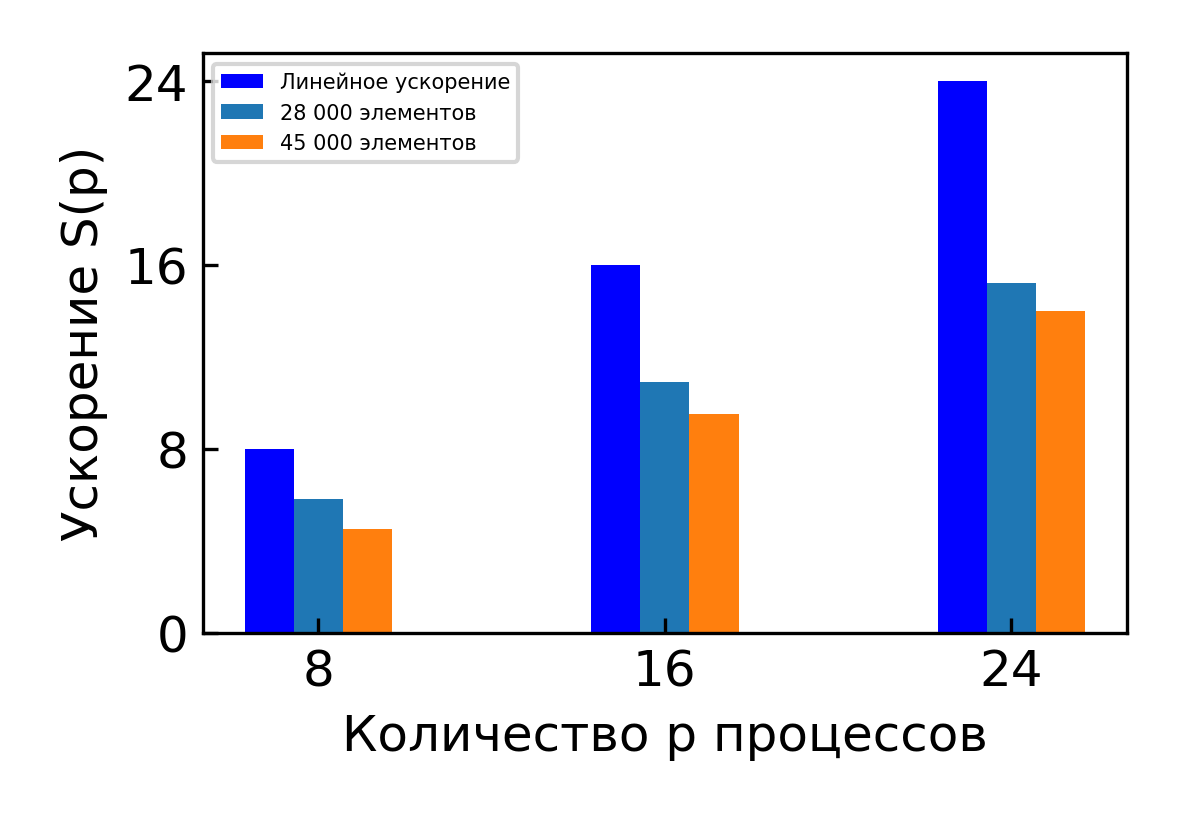
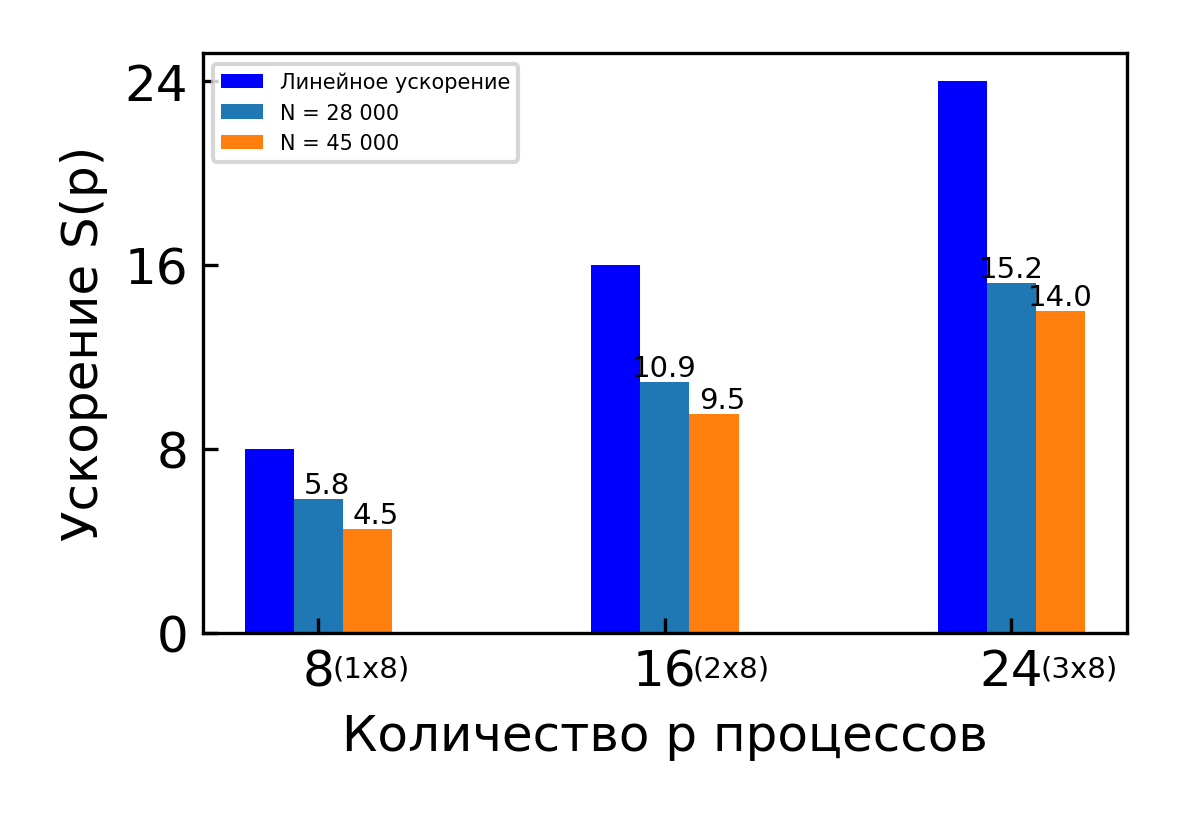
Fix chart in sgemv

diff --git a/MPI/sgemv/chart.py b/MPI/sgemv/chart.py
@@ -44,6 +44,10 @@ def draw(filenames, labels):
     thrd_end = max(dataX[0])
     wdh = 3.4 / (count_versions + 1)
 
+    plt.figtext(0.314, 0.19, "(1x8)", ha='center', va='center', fontsize=7)
+    plt.figtext(0.619, 0.19, "(2x8)", ha='center', va='center', fontsize=7)
+    plt.figtext(0.914, 0.19, "(3x8)", ha='center', va='center', fontsize=7)
+
     first_iteration = True
     p_offset = -wdh * count_versions * 0.5
     while thrd_cur <= thrd_end:
@@ -61,6 +65,9 @@ def draw(filenames, labels):
     for i in range(0, len(dataX)):
         ax.bar(dataX[i] + p_offset, dataY[i], label=lbls[i], width=wdh)
         p_offset += wdh
+        for j in range (len(dataX[i])):
+            ax.annotate(str(dataY[i][j]), xy=(dataX[i][j] + p_offset - 0.4, dataY[i][j]), ha='right', va='bottom', fontsize=7)
+            # ax.text(dataX[i][j] + p_offset, dataY[i][j]-5, '(1x8)', fontsize=8, ha='left', va='bottom')
 
     plt.tight_layout()
     ax.legend()
@@ -70,5 +77,5 @@ def draw(filenames, labels):
 
 if __name__ == "__main__":
     draw(["node1.dat", "node2.dat"], [
-         "28 000 элементов", "45 000 элементов"])
+         "N = 28 000", "N = 45 000"])
     # draw(["prog1.dat", "prog2.dat", "prog3.dat", "prog4.dat", "prog5.dat"], ["Версия 1", "Версия 2", "Версия 3", "Версия 4", "Версия 5"])
